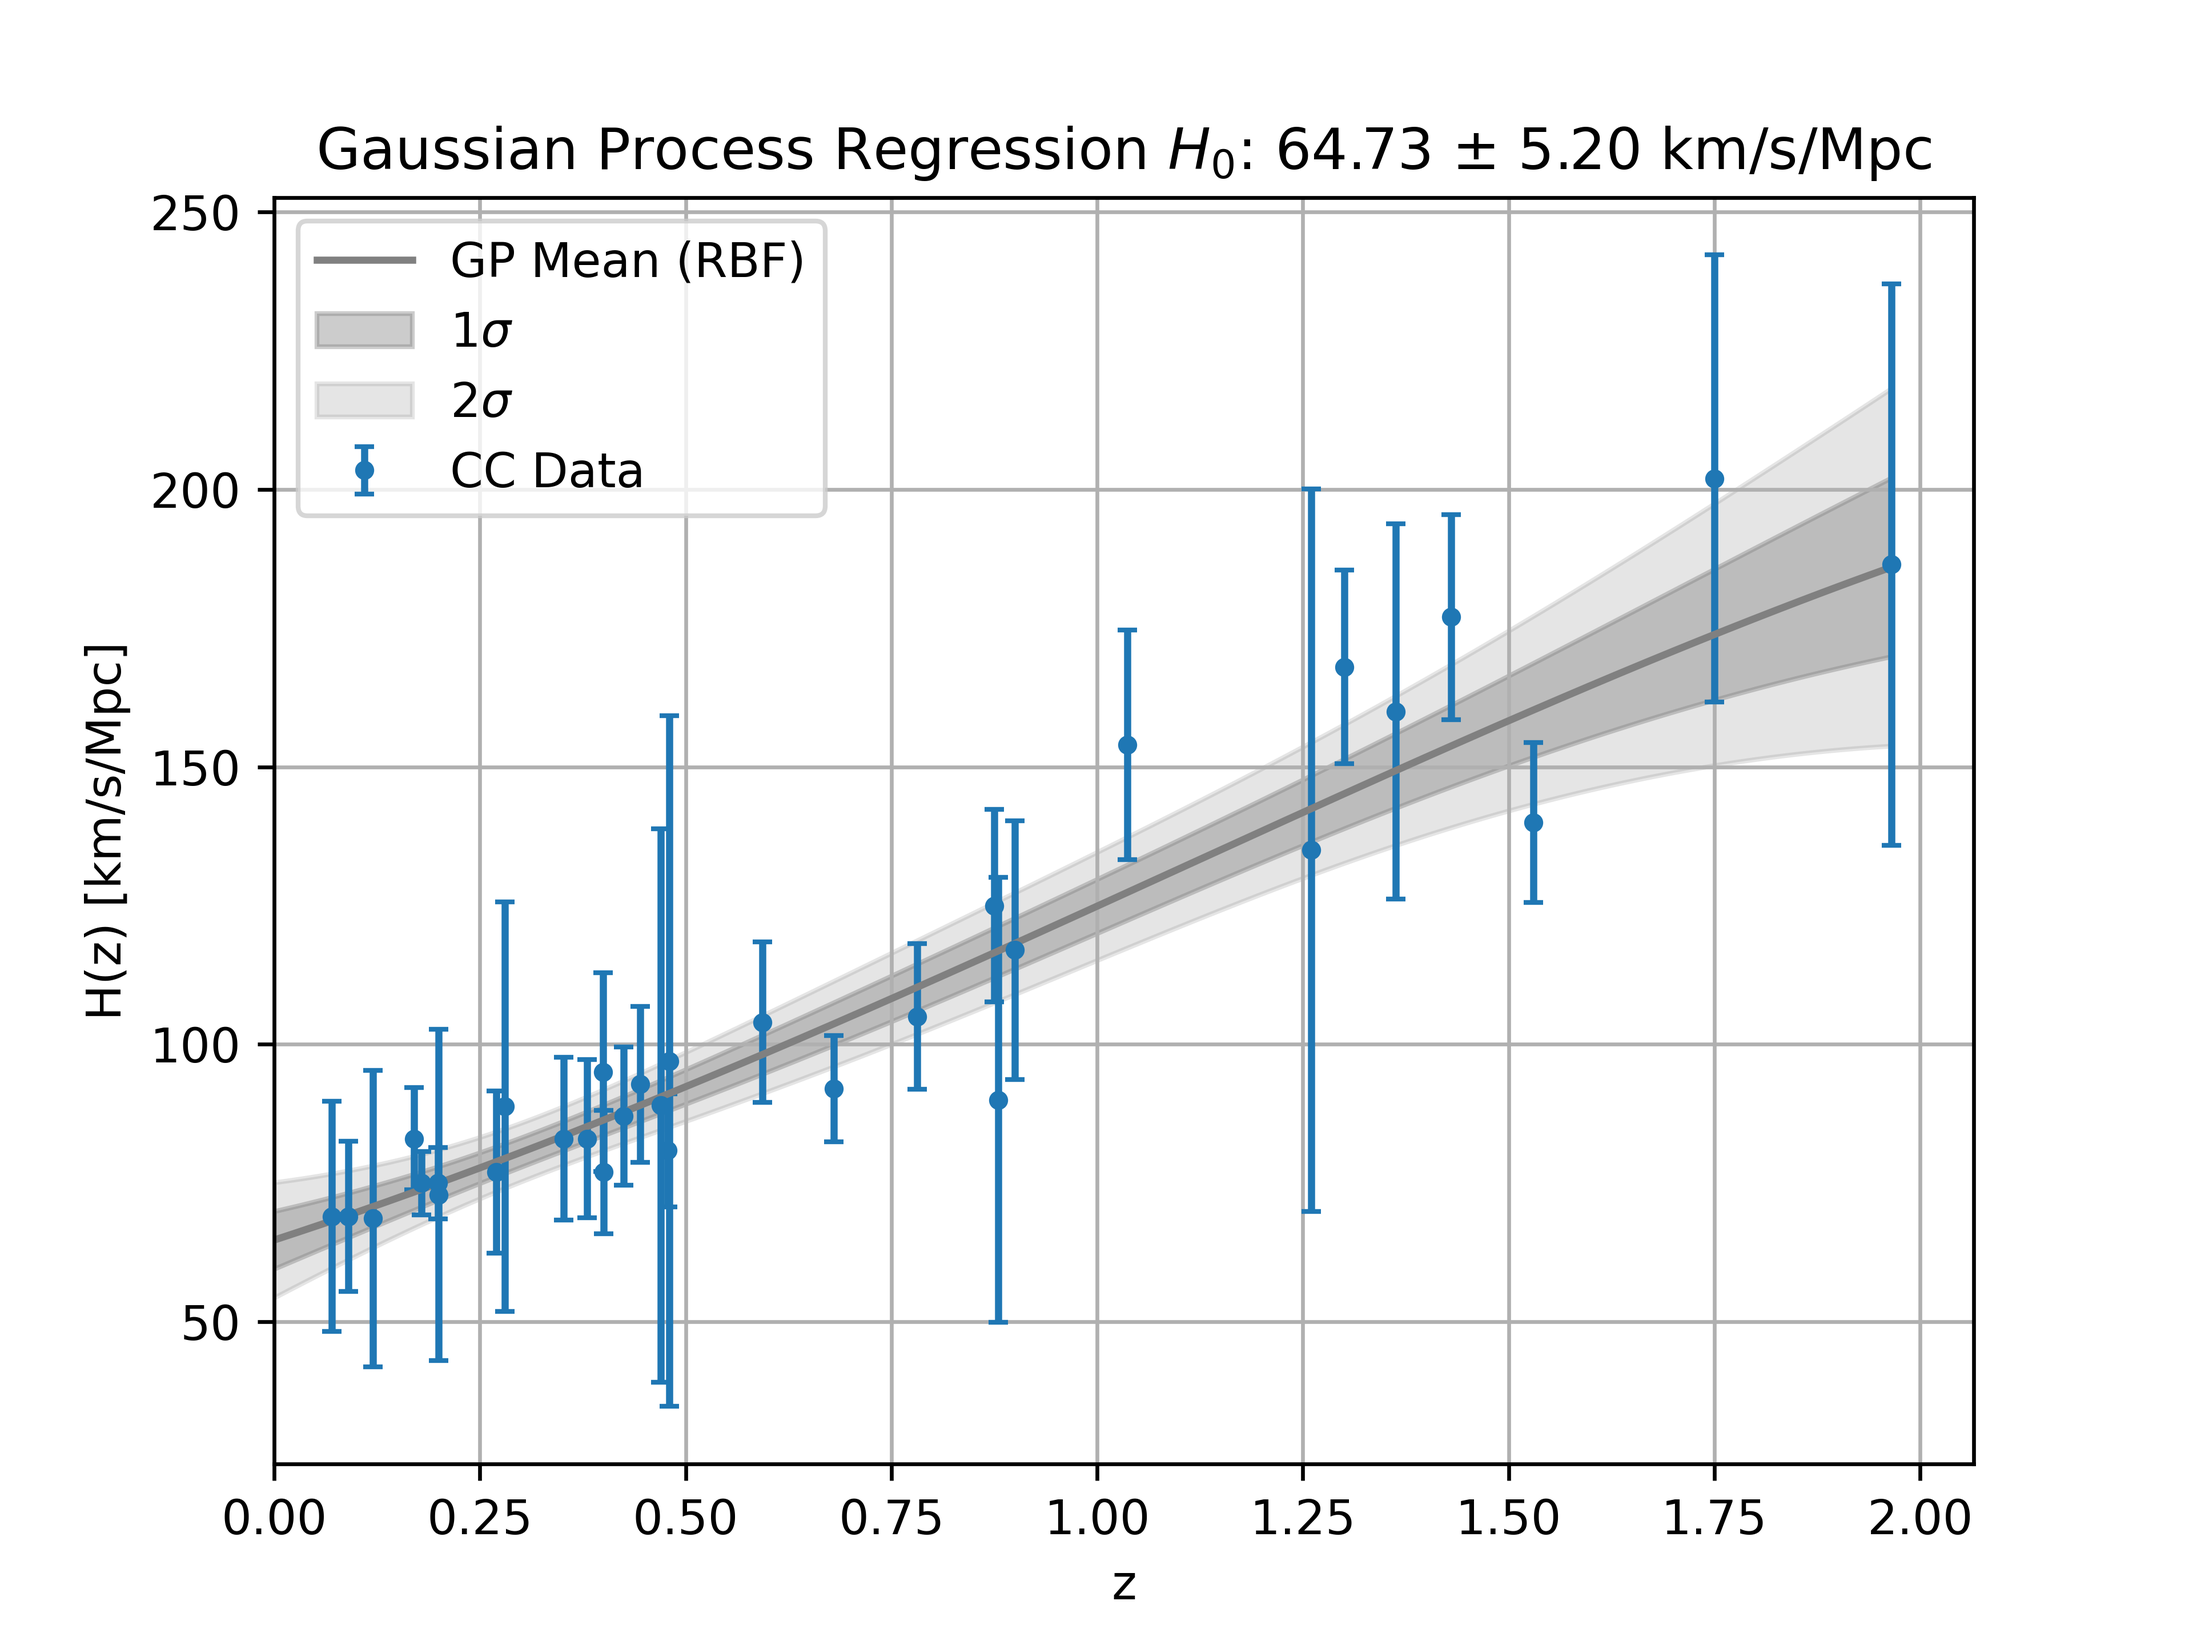
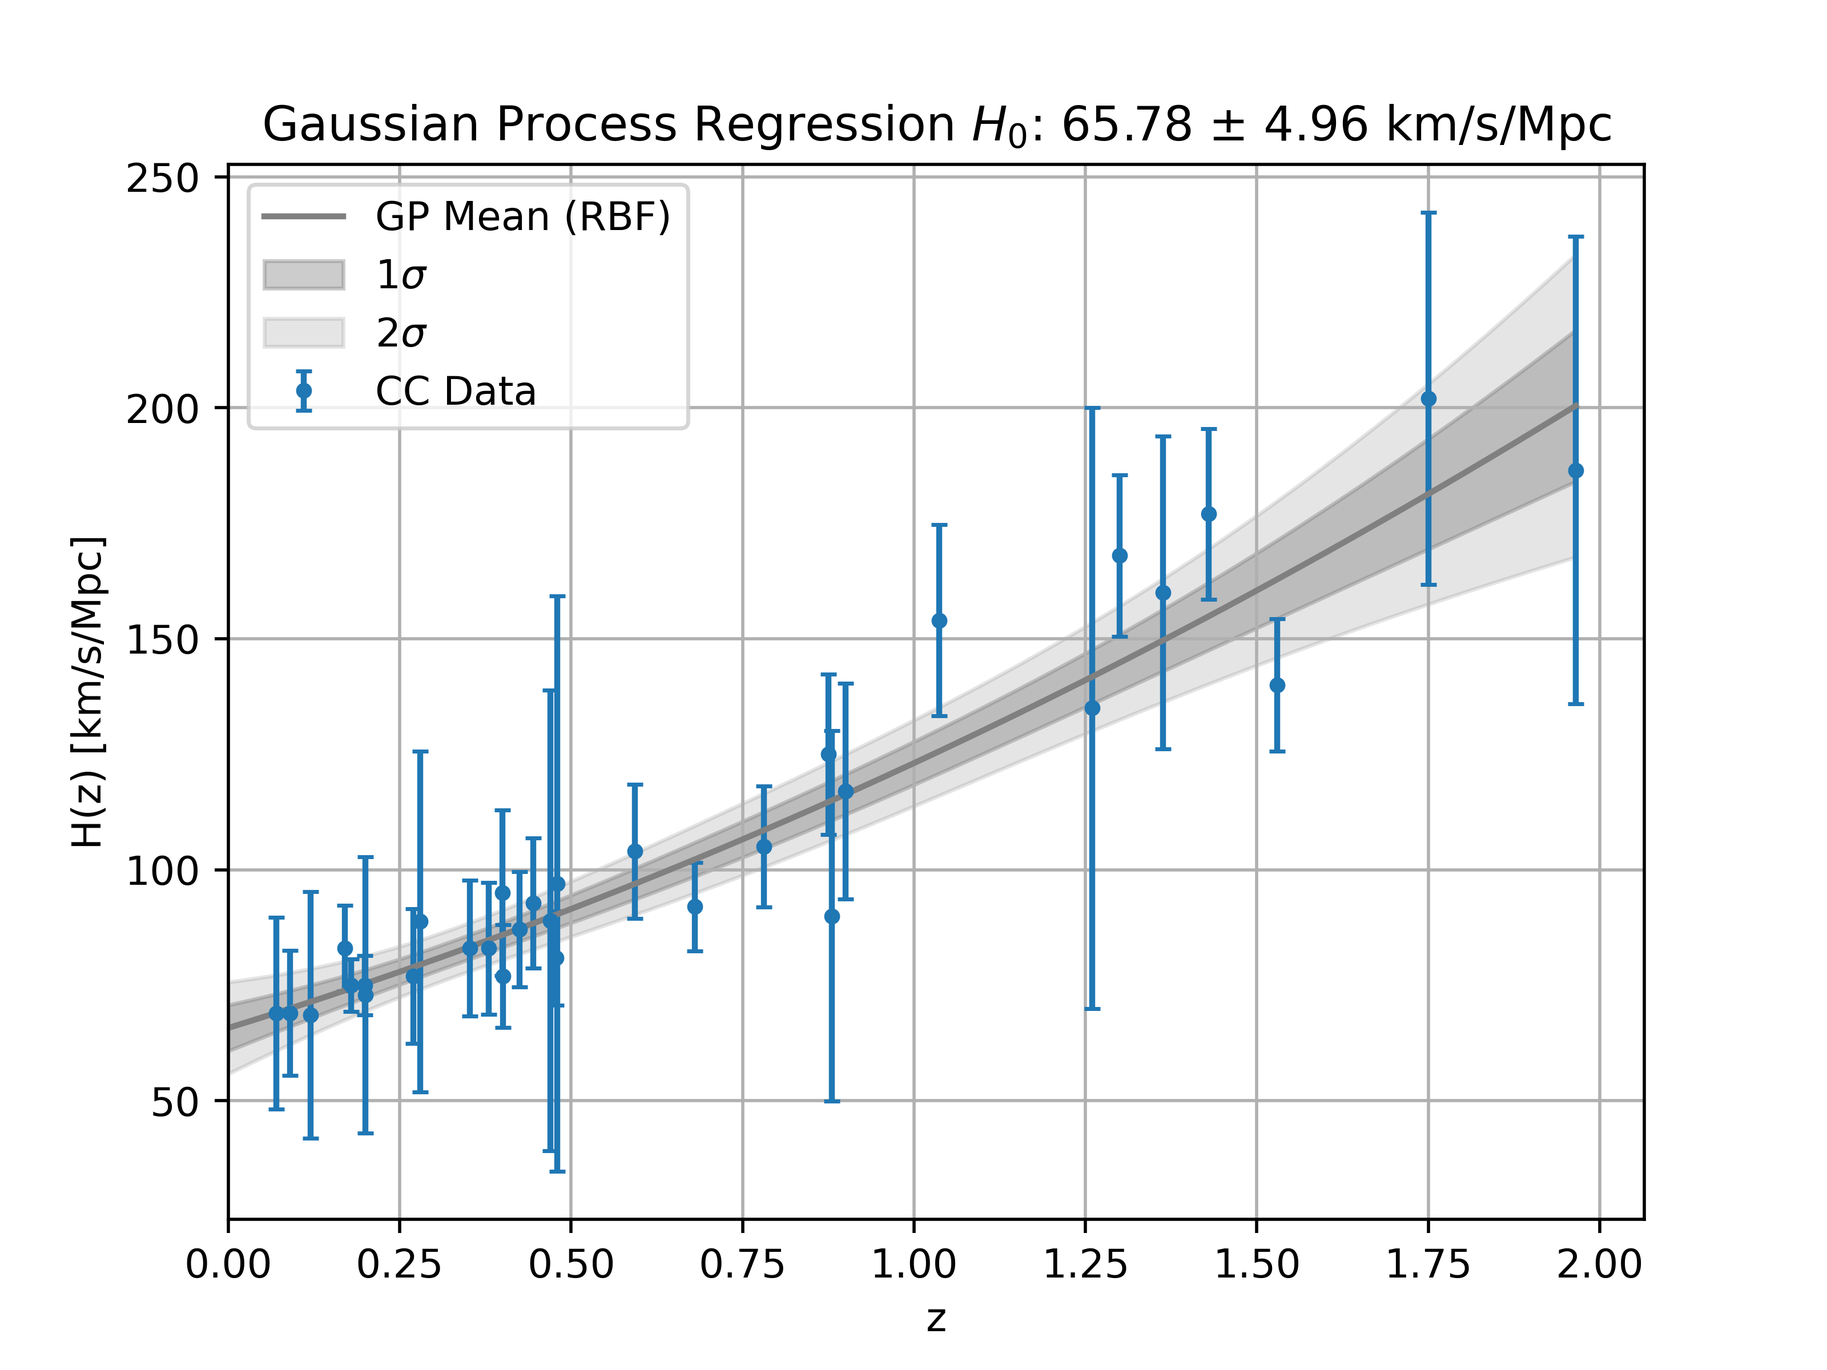
gp with DotProduct kernel

diff --git a/cosmic_chronometers/cc_gp.py b/cosmic_chronometers/cc_gp.py
@@ -1,7 +1,7 @@
 import numpy as np
 import matplotlib.pyplot as plt
 from sklearn.gaussian_process import GaussianProcessRegressor
-from sklearn.gaussian_process.kernels import RBF, ConstantKernel
+from sklearn.gaussian_process.kernels import RBF, ConstantKernel, DotProduct, WhiteKernel
 from y2005cc.data import get_data
 
 legend, z_values, H_values, cov_matrix = get_data()
@@ -11,8 +11,7 @@ z_values = z_values.reshape(-1, 1)
 z_pred = np.linspace(0, z_values.max(), 500).reshape(-1, 1)
 
 # Define RBF kernel (Squared Exponential)
-kernel = ConstantKernel(constant_value=147**2) * RBF(length_scale=2.5)
-
+kernel = ConstantKernel(constant_value=16**2) * DotProduct(sigma_0=2.0)**2
 # Gaussian Process Regressor
 gp = GaussianProcessRegressor(
     kernel=kernel,
@@ -23,8 +22,9 @@ gp = GaussianProcessRegressor(
 gp.fit(z_values, H_values)
 
 H_pred, sigma = gp.predict(z_pred, return_std=True)
-print("H0", f"{H_pred[0]:.2f} ± {sigma[0]:.2f}") # H0 64.73 ± 5.20 km/s/Mpc
-print("GP score:", gp.score(z_values, H_values)) # 0.897
+print("H0", f"{H_pred[0]:.2f} ± {sigma[0]:.2f}") # H0 65.78 ± 4.96 km/s/Mpc
+print("GP score:", gp.score(z_values, H_values)) # 0.899
+print("GP marginal likelihood value", gp.log_marginal_likelihood_value_) # -137.57
 
 plt.errorbar(z_values, H_values, yerr=dH_values, fmt='.', label='CC Data', capsize=2)
 plt.plot(z_pred, H_pred, label='GP Mean (RBF)', color='gray')
